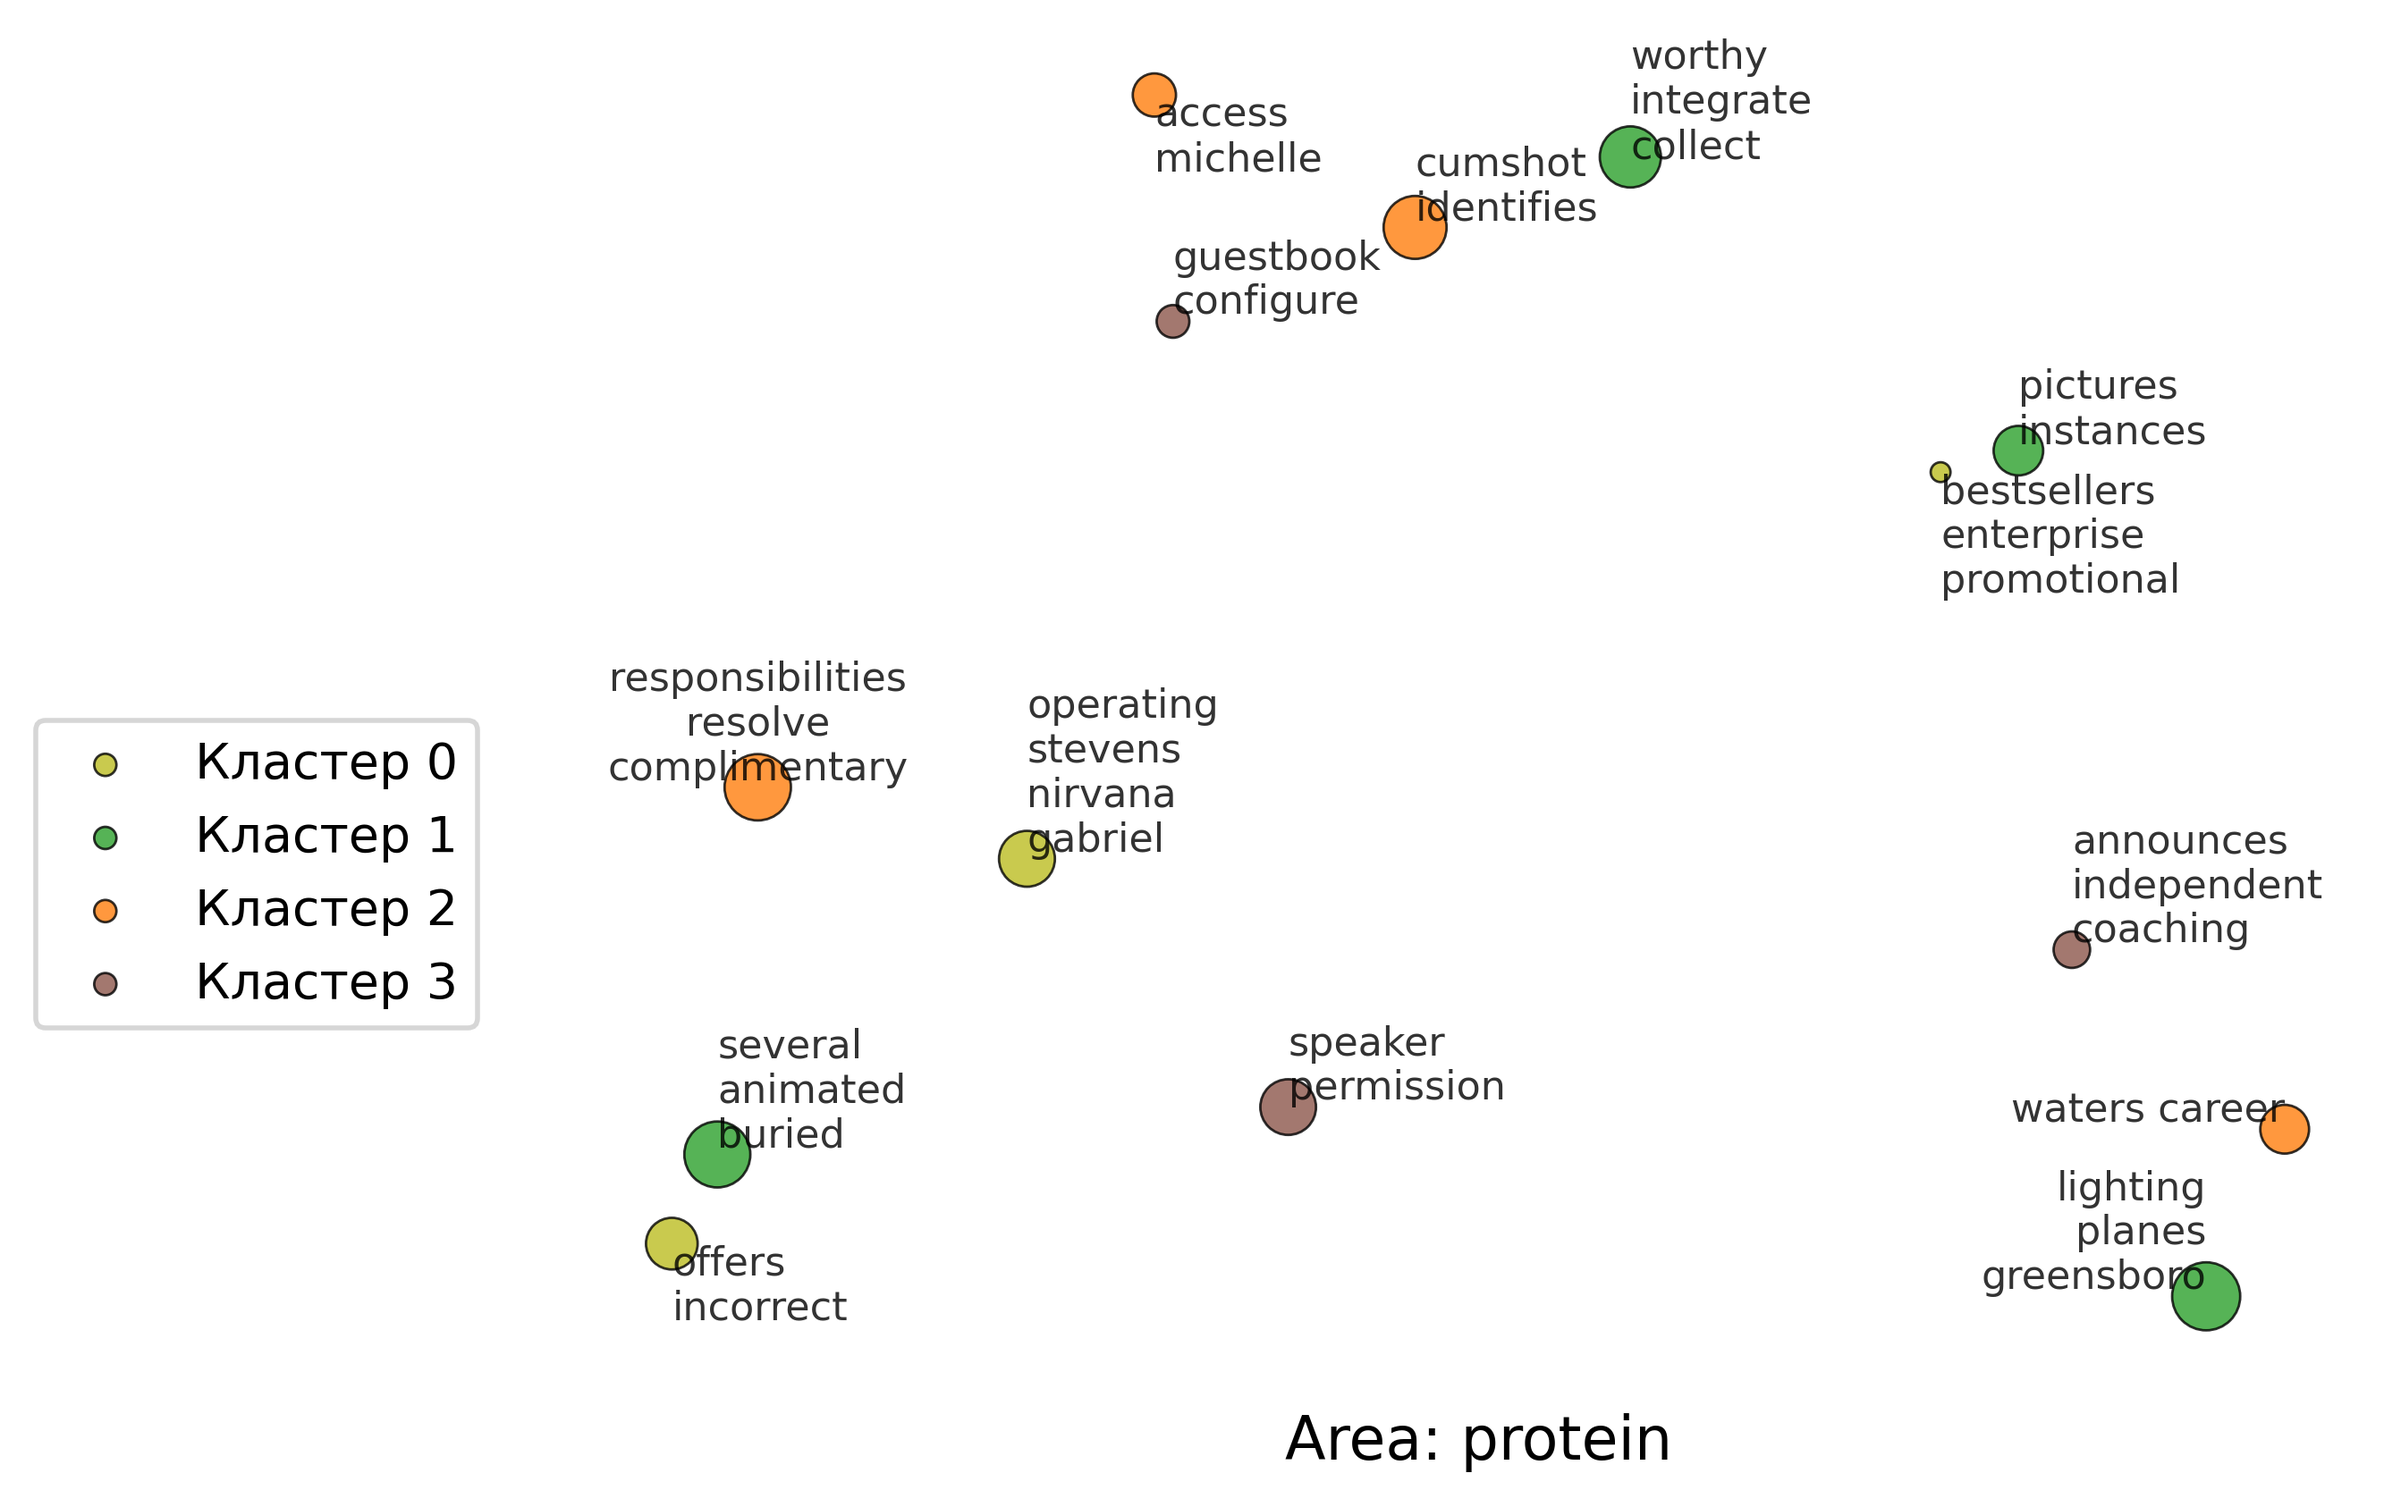
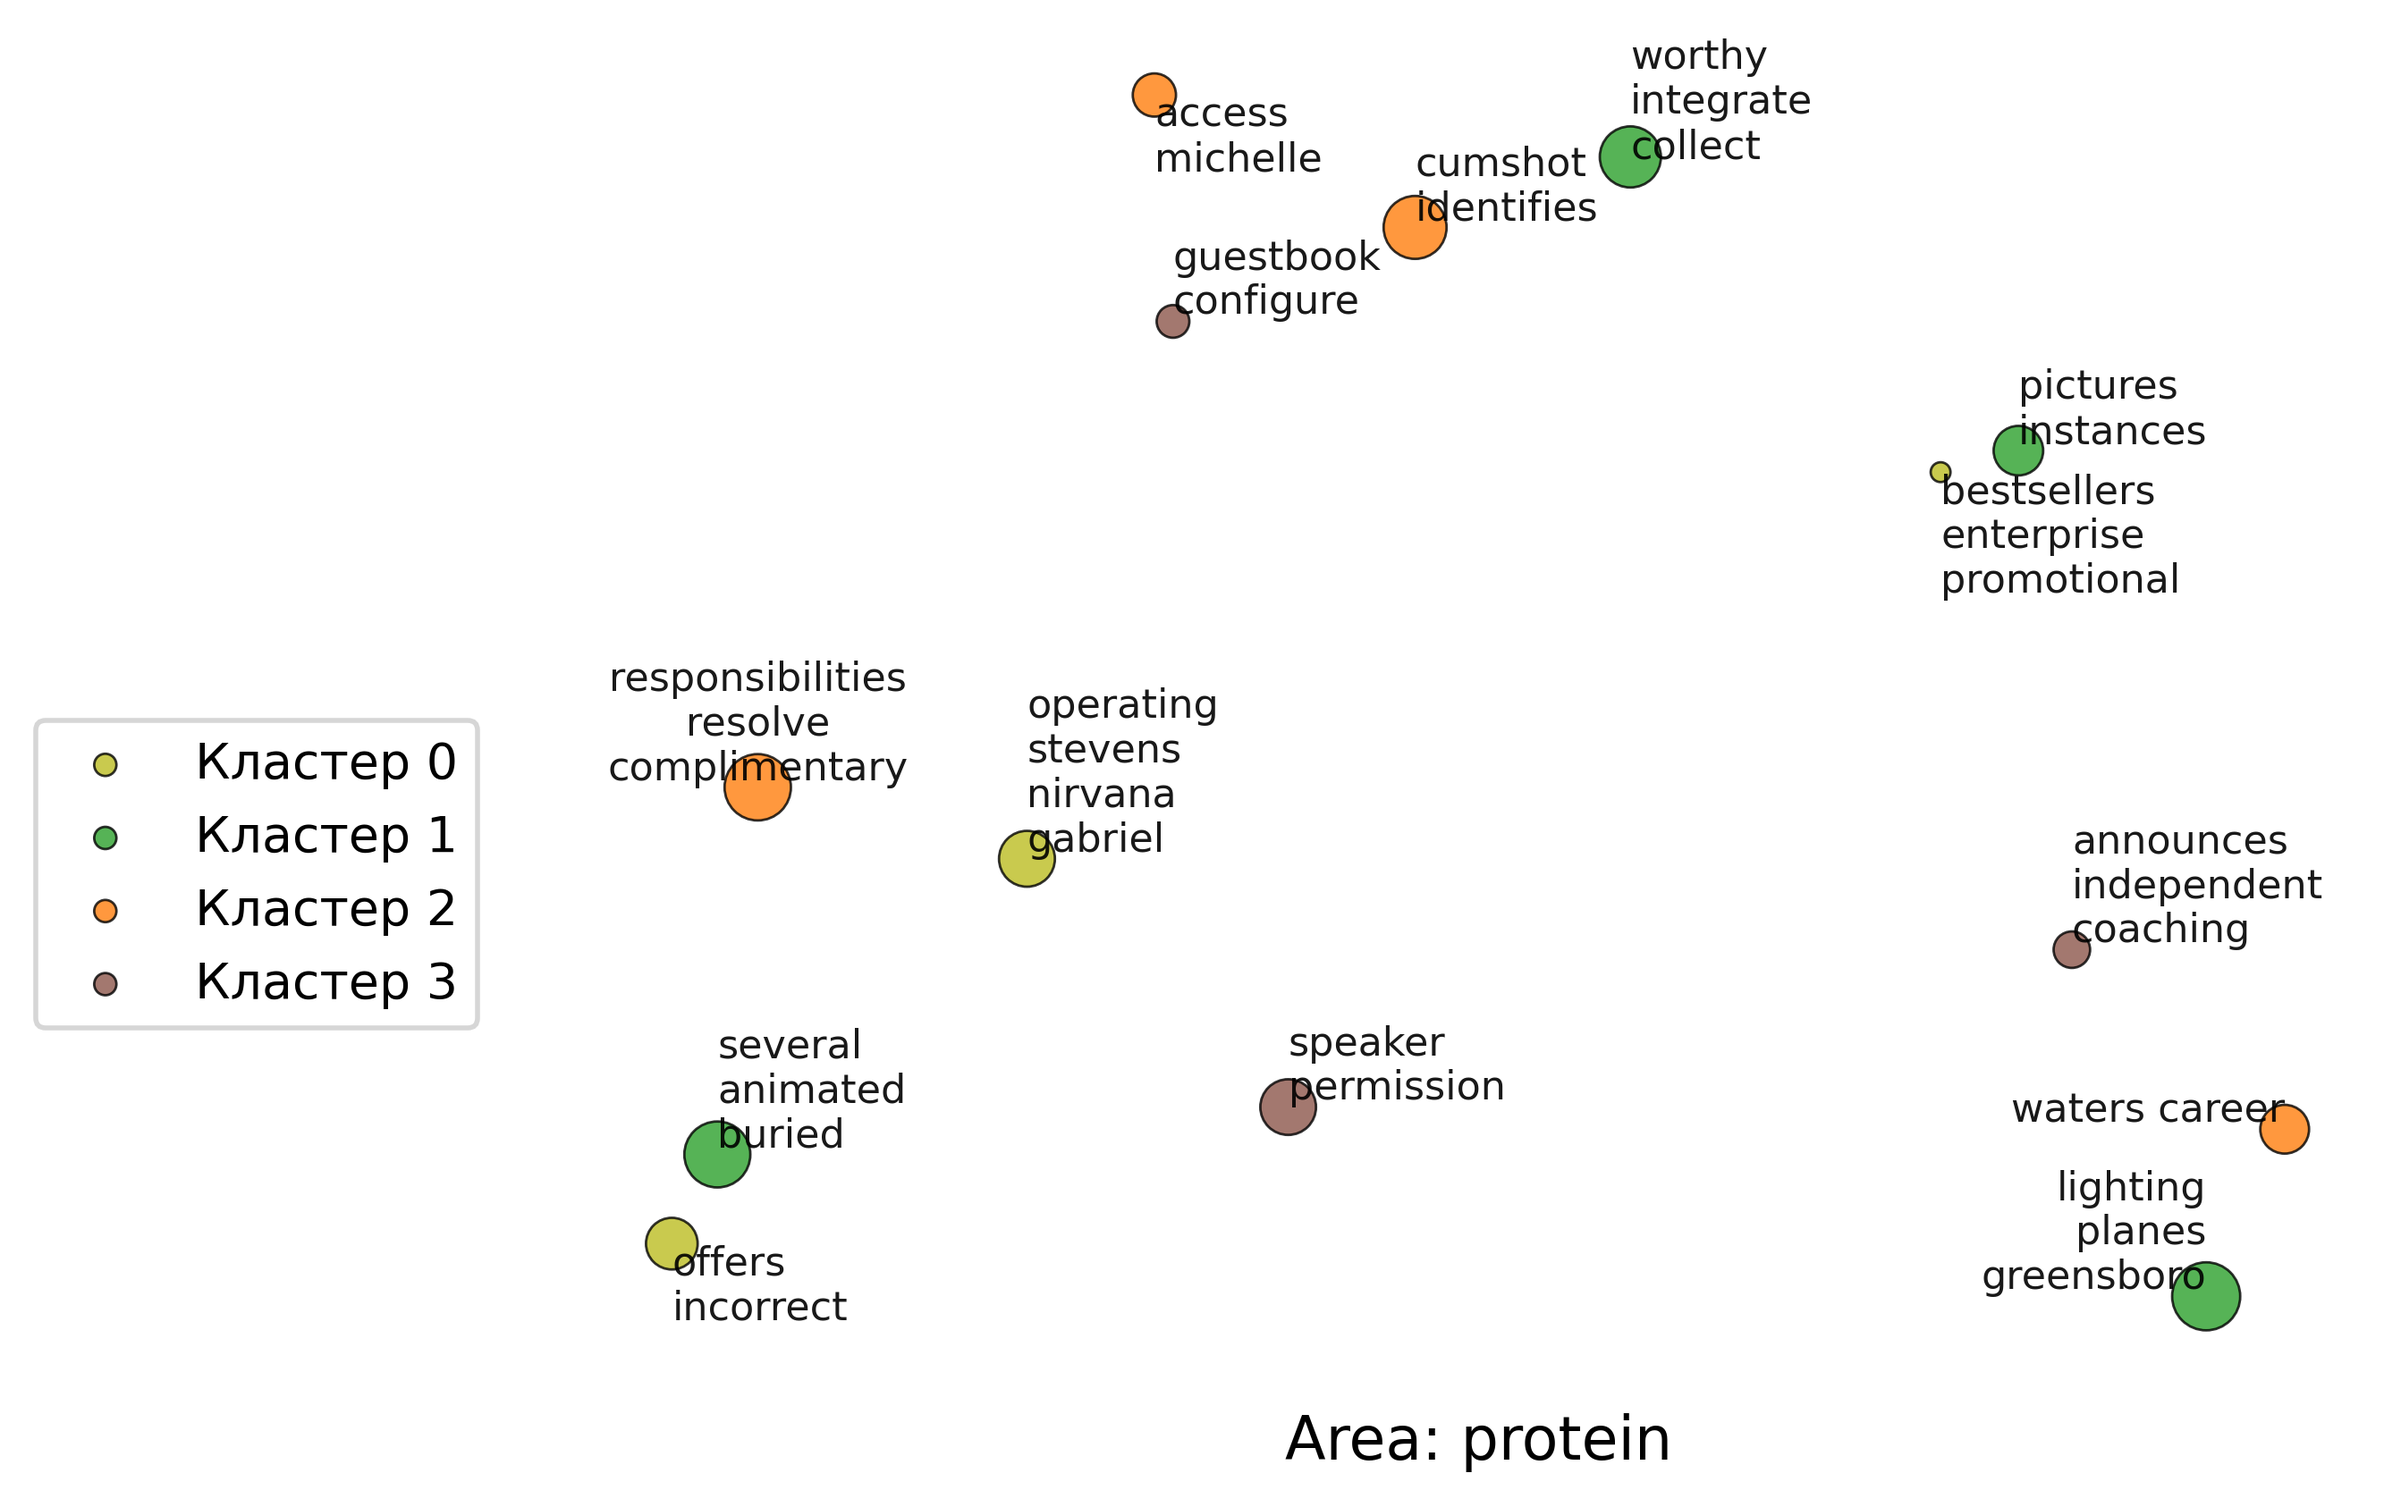
Поправка прозрачности

diff --git a/task_2.py b/task_2.py
@@ -58,7 +58,7 @@ def main():
                                 fontsize=8)
                 )
             for texts in texts_to_adjust:
-                texts.set_alpha(.8)
+                texts.set_alpha(0.9)
 
         ax.grid(False)
         ax.axis('off')
